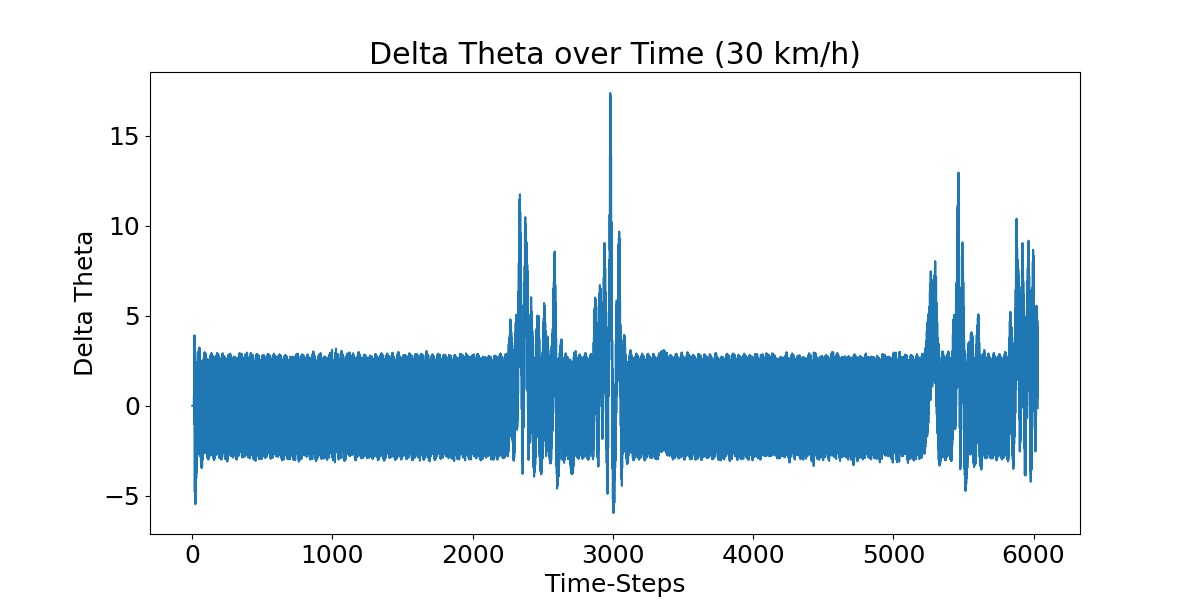
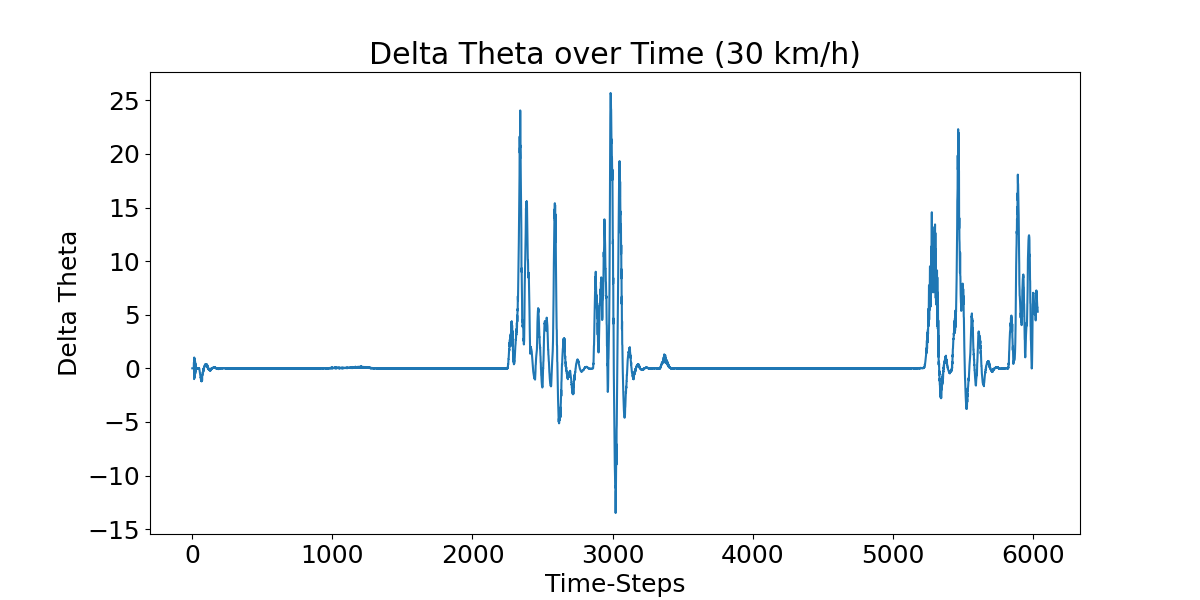
backup

diff --git a/run/2024_03_21_25rl.py b/run/2024_03_21_25rl.py
@@ -33,7 +33,7 @@ argparser.add_argument(
     default='30',
     help='Target speed for vehicle')
 argparser.add_argument(
-    '-d', '--steeringDenominator',
+    '-d', '--steerDenominator',
     default='50',
     help='Value by which to divide the steering angle')
 args = argparser.parse_args()
@@ -42,7 +42,7 @@ TARGET_SPEED = int(args.speed)
 dir_outptut = '_out_25_rl'
 if not os.path.exists(dir_outptut):
     os.makedirs(dir_outptut)
-dir_output_frames = f'{dir_outptut}/{TARGET_SPEED:03d}frames/'
+dir_output_frames = f'{dir_outptut}/{TARGET_SPEED:03d}_{args.steerDenominator:03d}_frames/'
 if not os.path.exists(dir_output_frames):
     os.makedirs(dir_output_frames)
 clean_directory(dir_output_frames)
@@ -213,13 +213,13 @@ def main():
         ax0.autoscale_view('tight')
         ax0.set_xlabel('Time-Steps')
         ax0.set_ylabel('Distance from Predicted Location to Path')
-        ax0.set_title(f'Distance of Deviation From Path ({TARGET_SPEED} km/h)')
+        ax0.set_title(f'Distance of Deviation From Path ({TARGET_SPEED} km/h, {args.steerDenominator:03d} steer denominator)')
         fig_deltaTheta, ax1 = plt.subplots(figsize=(12, 6))
         ax1.set_xlabel('Time-Steps')
         # ax1.set_ylabel('Delta Y')
         ax1.set_ylabel('Delta Theta')
         # ax1.set_title('Delta Y over Time')
-        ax1.set_title(f'Delta Theta over Time ({TARGET_SPEED} km/h)')
+        ax1.set_title(f'Delta Theta over Time ({TARGET_SPEED} km/h, {args.steerDenominator:03d} steer denominator)')
         # Plot setup for overlay
         fig_overlay, ax2 = plt.subplots(figsize=(12, 6))  # Adjust the figsize as needed
         # leg = ax2.legend()
@@ -241,7 +241,7 @@ def main():
         ax2.set_aspect('auto', 'box')
         ax2.set_xlabel('X')
         ax2.set_ylabel('Y')
-        ax2.set_title(f'Vehicle Location and Path Overlay ({TARGET_SPEED} km/h)')
+        ax2.set_title(f'Vehicle Location and Path Overlay ({TARGET_SPEED} km/h, {args.steerDenominator:03d} steer denominator)')
         def printLocations(currentLocation, closestLocation):
             return f'current location: {strLocation2D(currentLocation)} | closest location from path: {strLocation2D(closestLocation)}'
         dictLocationPrediction = {}
@@ -380,7 +380,7 @@ def main():
                     raise Exception("Vehicle stopped moving.")
             else:
                 bHitSpeedMinimum = True
-                maxSteer = min(abs(deltaTheta)/args.steeringDenominator, 1)
+                maxSteer = min(abs(deltaTheta)/int(args.steeringDenominator), 1)
             # if abs(deltaTheta) < thresholdDeltaThetaSteer:
             #     # deltaTheta = -deltaTheta
             #     maxSteer = 1e-3
@@ -443,11 +443,11 @@ def main():
         elapsedSecondsEnd = world.get_snapshot().timestamp.elapsed_seconds
         # Save the delta Y plot
         ax0.plot(listDistancePredToPath)
-        fig_distancePredToPath.savefig(os.path.join(dir_outptut, f'distancePredToPath{TARGET_SPEED:03d}.png'))
+        fig_distancePredToPath.savefig(os.path.join(dir_outptut, f'distancePredToPath{TARGET_SPEED:03d}_{args.steerDenominator:03d}.png'))
         # ax1.plot(listDeltaY)
         ax1.plot(listDeltaTheta)
         # fig_deltaY.savefig(os.path.join(dir_outptut, 'deltaY.png'))
-        fig_deltaTheta.savefig(os.path.join(dir_outptut, f'deltaTheta{TARGET_SPEED:03d}.png'))
+        fig_deltaTheta.savefig(os.path.join(dir_outptut, f'deltaTheta{TARGET_SPEED:03d}_{args.steerDenominator:03d}.png'))
         # plt.close(fig_deltaY)
         plt.close(fig_deltaTheta)
         # Save the overlay plot
@@ -466,14 +466,14 @@ def main():
         ax2.set_ylabel('Y')
         # ax2.set_title(f'Vehicle Location and Path Overlay ({TARGET_SPEED} km/h)')
         plt.rcParams.update({'font.size': 24})
-        fig_overlay.savefig(os.path.join(dir_outptut, f'overlay_plot{TARGET_SPEED:03d}.png'))
+        fig_overlay.savefig(os.path.join(dir_outptut, f'overlay_plot{TARGET_SPEED:03d}_{args.steerDenominator:03d}.png'))
         plt.close(fig_overlay)
 
         elapsedTime = elapsedSecondsEnd - elapsedSecondsStart
         def TimeToTextFile(elapsed_time_seconds):
             fileTime = os.path.join(
                 dir_outptut, 
-                f'{TARGET_SPEED:03d}_{elapsed_time_seconds:.2f}'
+                f'{TARGET_SPEED:03d}_{args.steerDenominator:03d}_{elapsed_time_seconds:.2f}'
             )
             open(fileTime,'w')
         TimeToTextFile(elapsedTime)

diff --git a/run/2024_04_04_26_parent_rl.py b/run/2024_04_04_26_parent_rl.py
@@ -3,18 +3,19 @@ town = subprocess.Popen(['python', 'run/2024_02_19_19town.py'])
 town.wait()
 
 # for speed in [80, 200, 210]:
-for speed in range(30,201,10):
+# for speed in range(30,201,10):
 # for speed in range(80,29,-10):
+for speed in range(80,201,10):
     print(f'START SPEED {speed}')
     for steeringDenominator in range(25,201,25):
         print('--------------------------------------------------')    
         strRunLabel = f'run for (1) target speed {speed} and '+ \
-            f'(2) steering denominator {steeringDenominator}'
+            f'(2) steer denominator {steeringDenominator}'
         print(f'started run for {strRunLabel}')
         driveConstantSpeed = subprocess.Popen([
             'python', 'run/2024_03_21_25rl.py', 
             '--speed', str(speed),
-            '--steeringDenominator', str(steeringDenominator)
+            '--steerDenominator', str(steeringDenominator)
             ])
         # driveConstantSpeed.wait()
         output, error = driveConstantSpeed.communicate()
